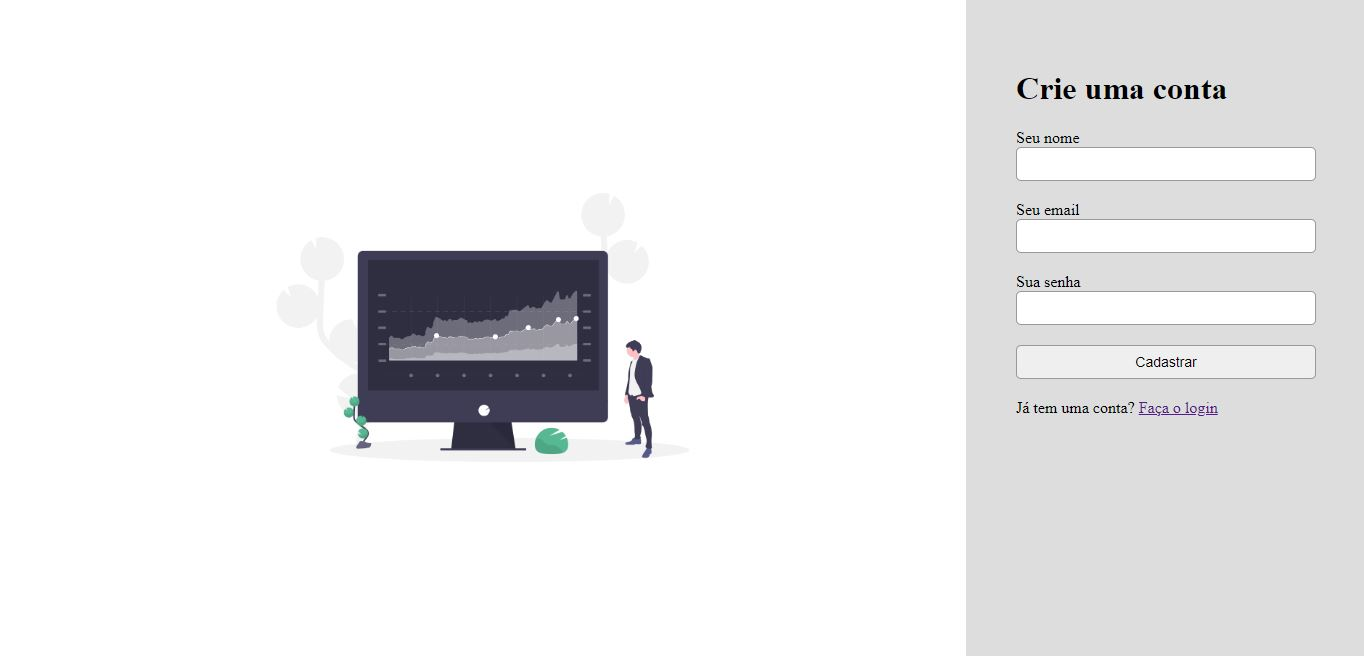
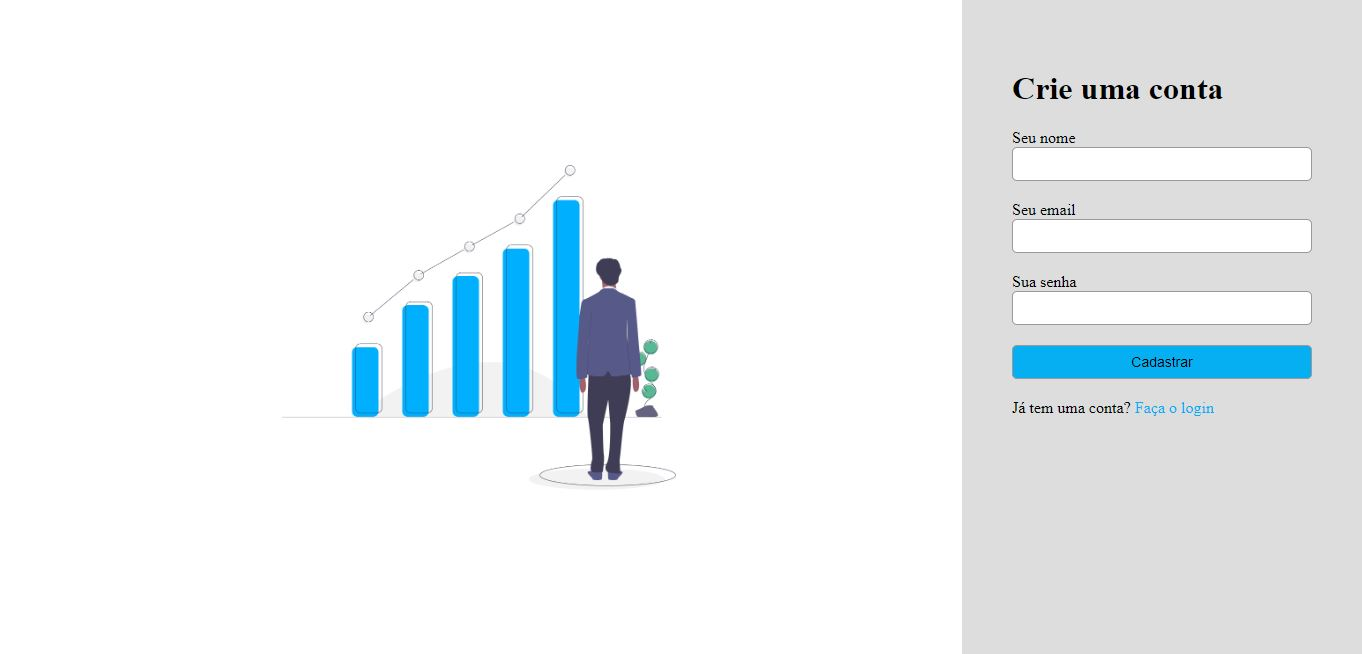
alterei backgroud-color do submit e print

diff --git a/style.css b/style.css
@@ -44,7 +44,7 @@ body{
 }
 
 .error{
-    font-size: 11px;
+    font-size: 12px;
     background-color: #F25046;
     color: #FFF;
     padding: 4px;
@@ -52,10 +52,25 @@ body{
     
 }
 
+#botão-submit{
+    background-color: #05AFF2;
+    font-size: 14px;
+
+}
+
 #botão-submit:hover{
-    opacity: 0.8;
+    opacity: 0.7;
+    background-color: #05AFF2;
+    color: #DDD;
+    font-size: 16px;
 }
 
 #botão-submit:active{
     opacity: 0.9;
+    font-weight: bolder;
+}
+
+a{
+text-decoration: none;
+color: #05AFF2;
 }

diff --git a/index.html b/index.html
@@ -12,7 +12,7 @@
 <body>
     <div class="screen">
         <div class="leftside">
-            <img src="./img/financial_data.png" alt="imagem">
+            <img src="./img/investimento.png" alt="imagem">
         </div>
         <div class="rightside">
             <H1>Crie uma conta</H1>
